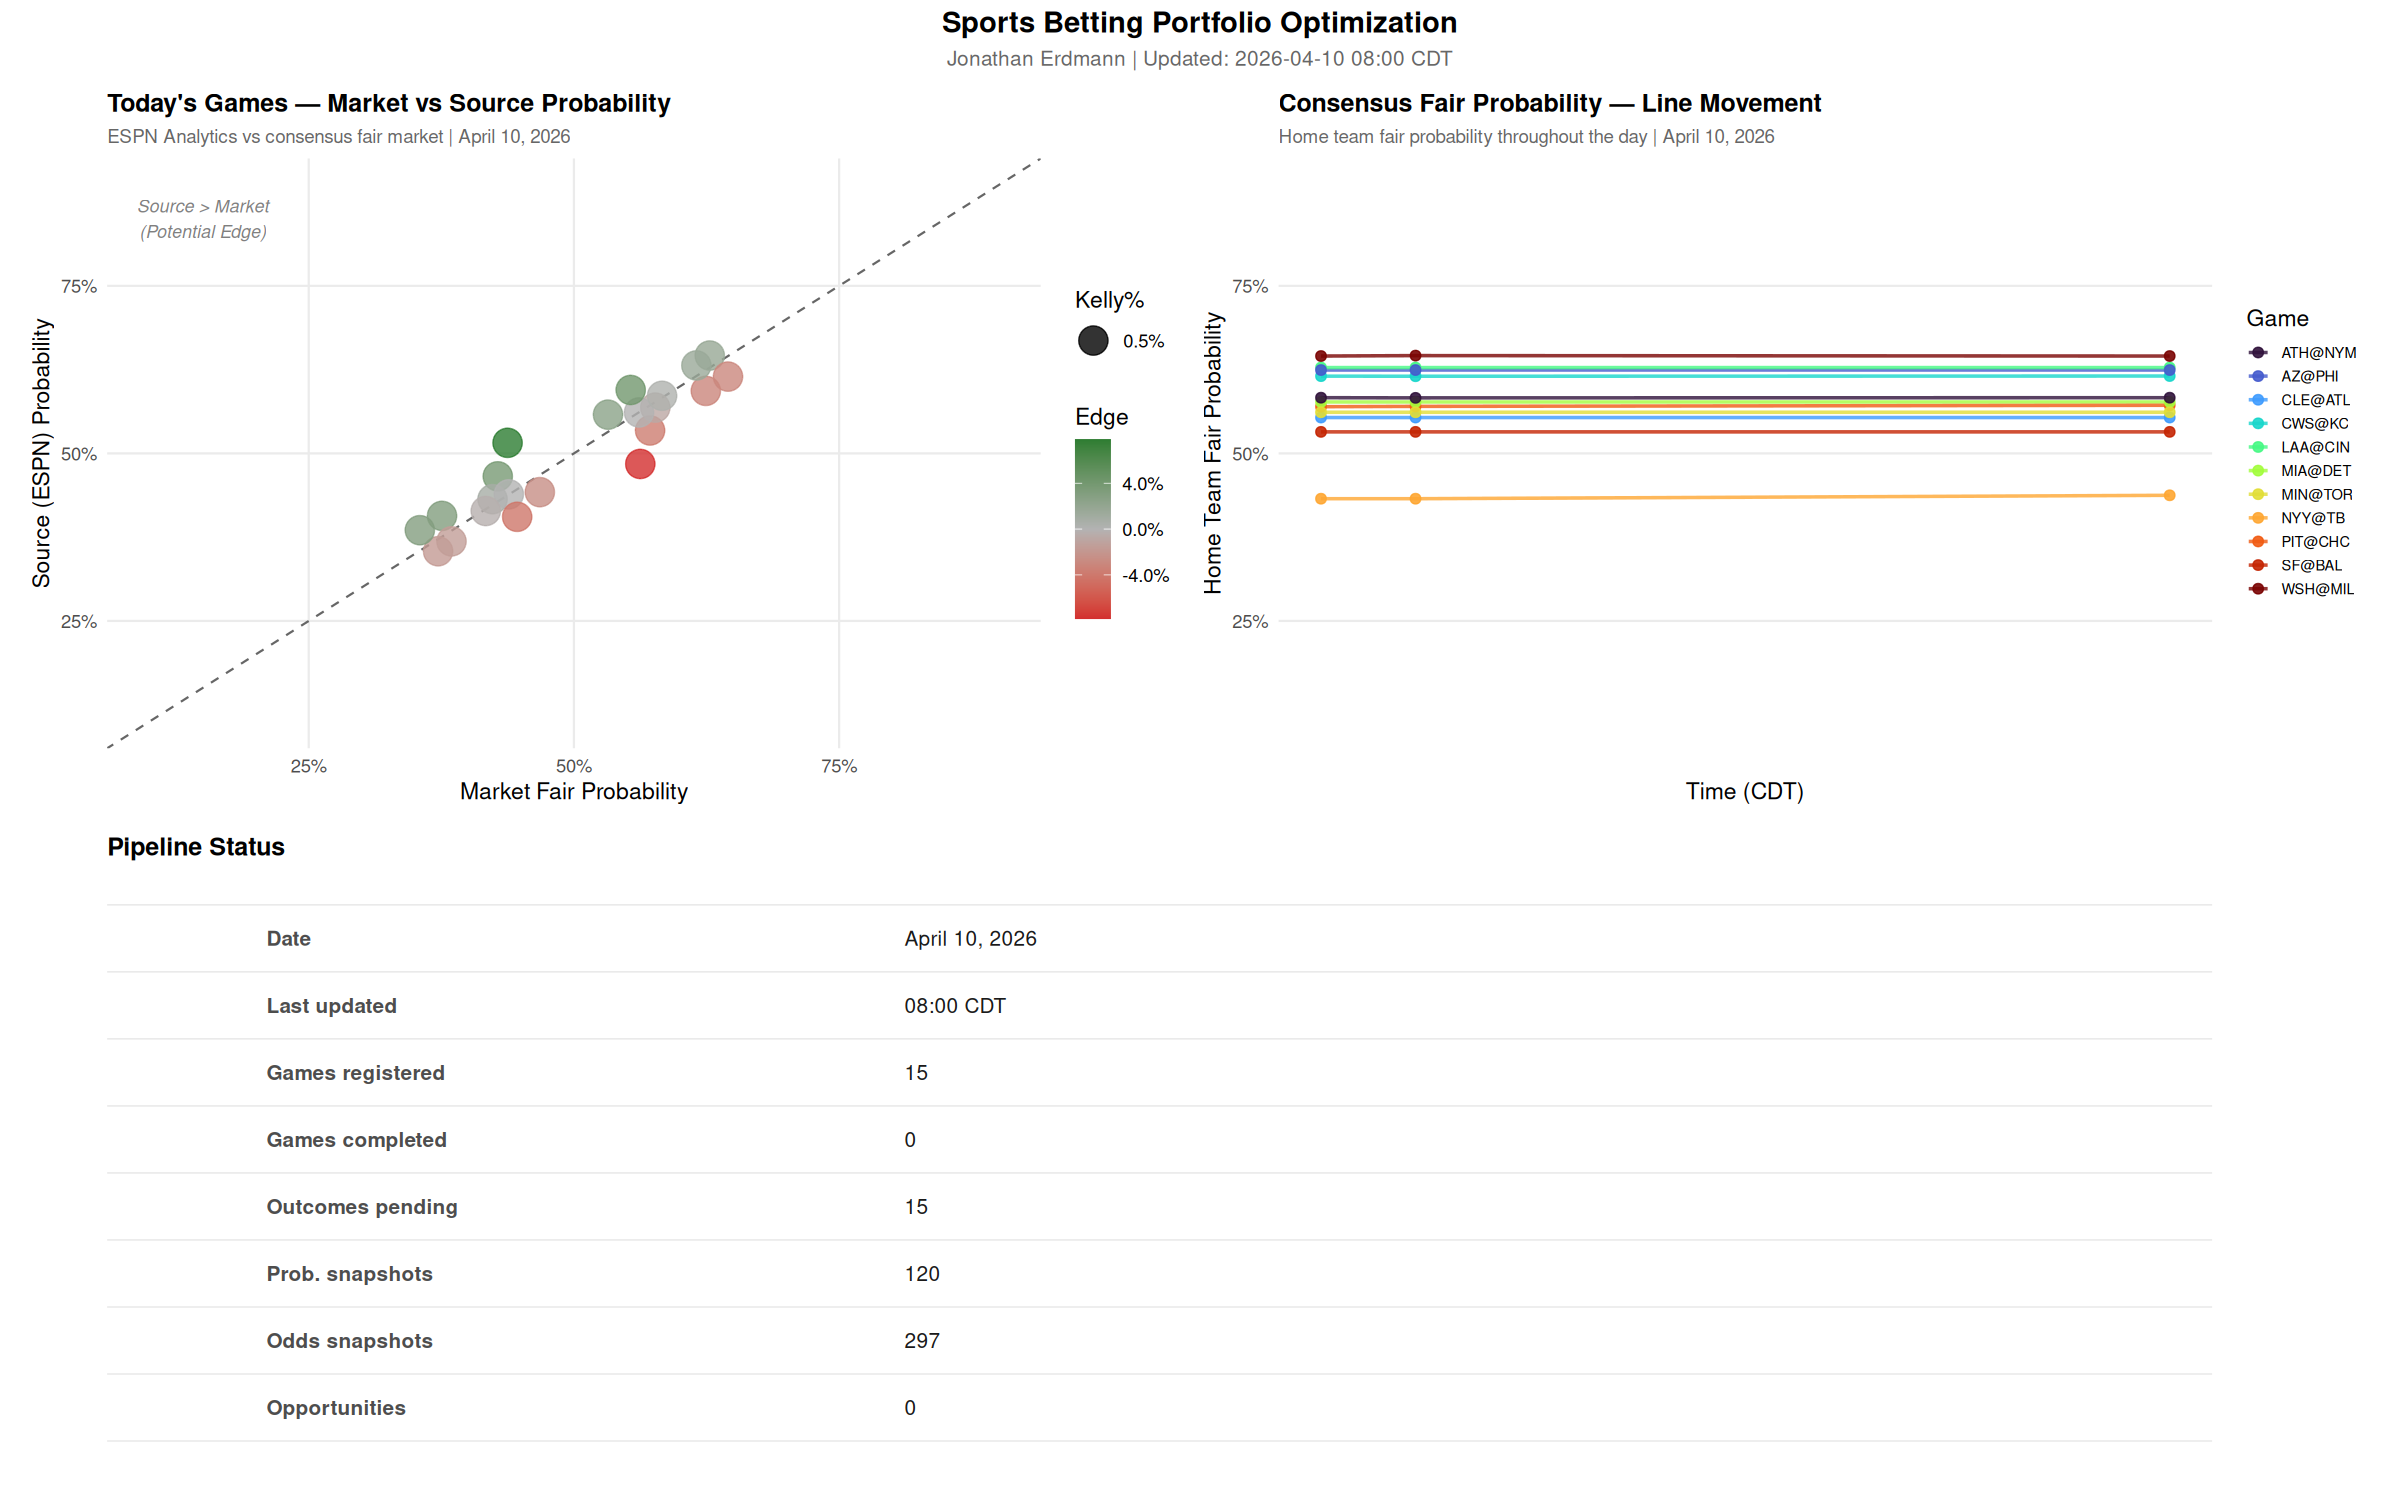
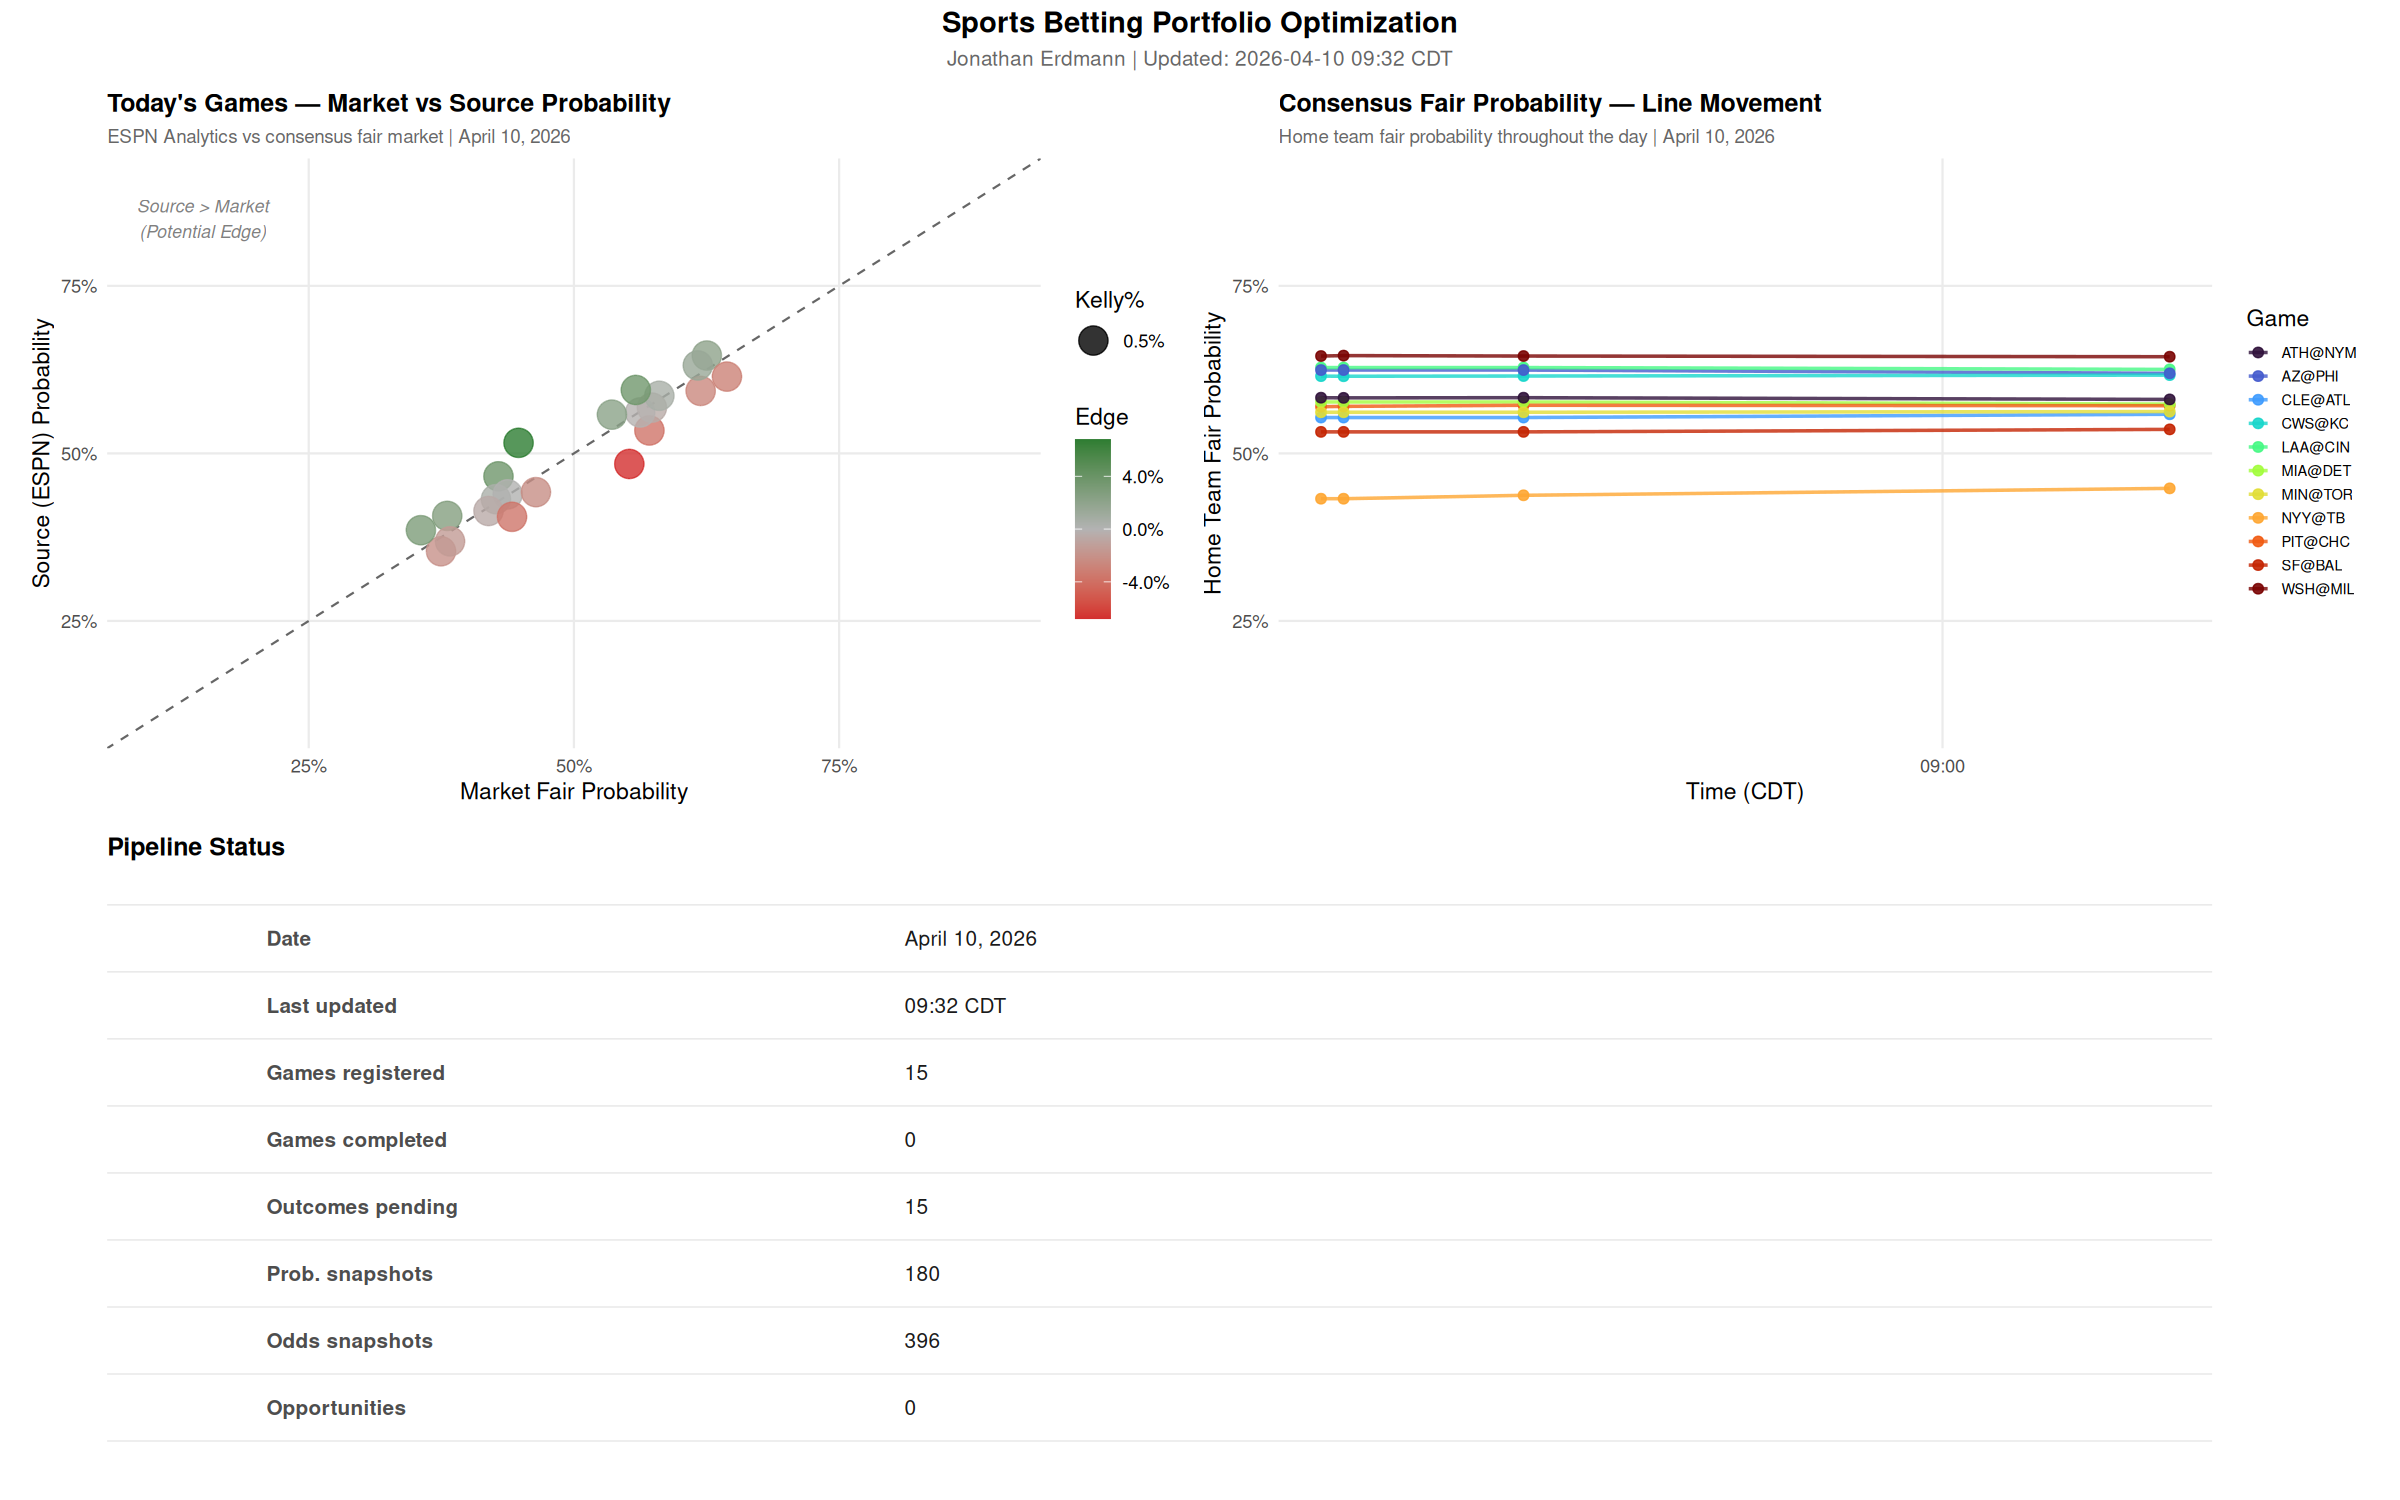
Update dashboard: 2026-04-10 09:32

diff --git a/projects/portfolio-optimization/dashboard.md b/projects/portfolio-optimization/dashboard.md
@@ -6,7 +6,7 @@ permalink: /projects/portfolio-optimization/dashboard/
 
 ## Daily Pipeline Dashboard
 
-**Last updated:** April 10, 2026 08:00 CDT
+**Last updated:** April 10, 2026 09:32 CDT
 
 ---
 
